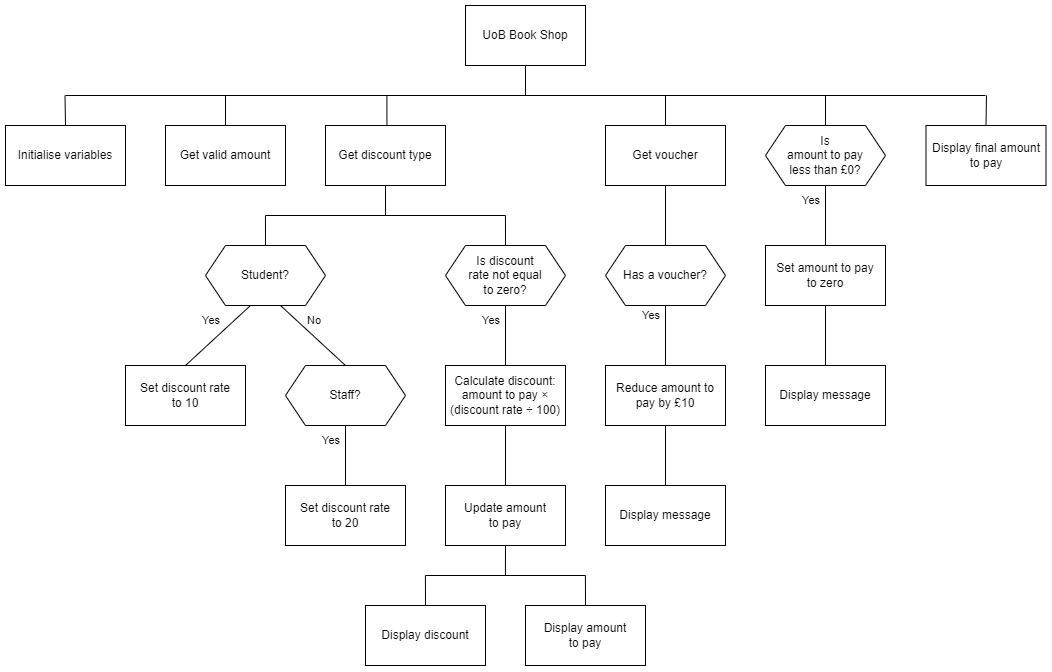
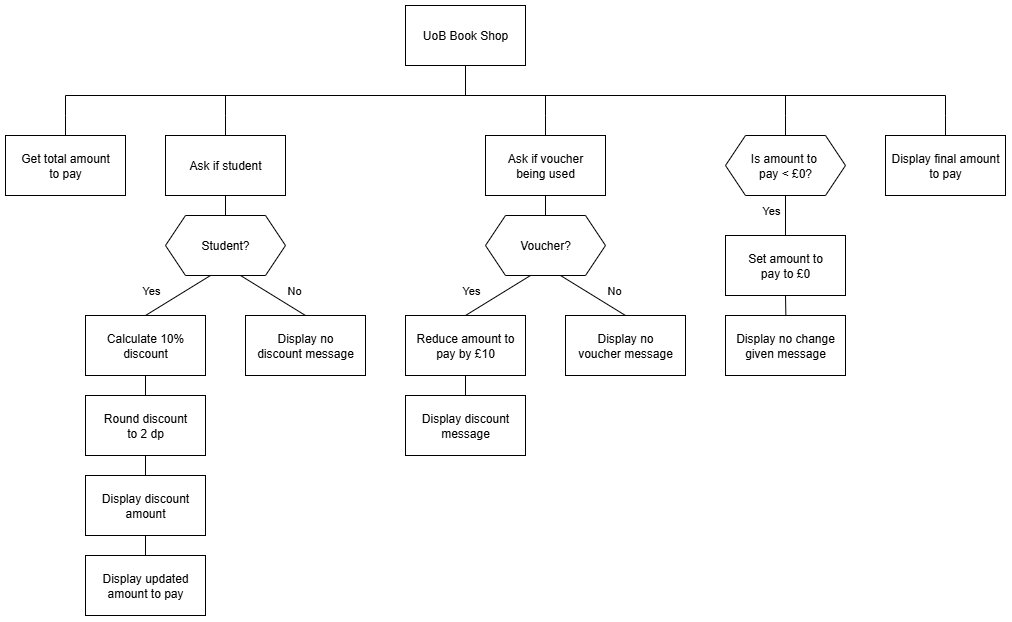
Updated

diff --git a/n5-cs/sdd/N5-SDD-Book-Shop/index2.md b/n5-cs/sdd/N5-SDD-Book-Shop/index2.md
@@ -3,12 +3,18 @@
 
 ## Introduction
 
-The University of Barra (UoB) bookshop is upgrading its software.  There is a wide selection of items for sale in the shop, ranging from a minimum of £5 up to a maximum of £100.  To help staff and students with the cost they get a discount.  The book shop will accept a gift voucher to pay for all or some of the purchase.  Only one £10 gift voucher can be used per purchase.  When using a voucher, no change is given if the amount to pay is less than £10.
+The University of Barra (UoB) bookshop is upgrading its software.
+To help students with the cost of the books they get a discount.
+The book shop will accept a gift voucher to pay for all or some of the purchase.
+Only one £10 gift voucher can be used per purchase.
+When using a voucher, no change is given if the amount to pay is less than £10.
 
 
 ## Task
 
-Use the structure diagram to implement a program that will accept a non-discounted amount, calculate the discounted price if appropriate, and then take into account using a voucher to pay for some, or all, of the amount.
+Use the structure diagram to implement a program that will accept a non-discounted amount, 
+calculate the discounted price if appropriate, and then take into account using a voucher to pay for some, 
+or all, of the amount.
 
 
 ## Top level design (Structure diagram)
@@ -23,19 +29,10 @@ Use the structure diagram to implement a program that will accept a non-discount
 * £10 as 10
 * 50p as 0.50
 
-2. Any text entered is lower or upper case, i.e. yes, YES, staff, STAFF, ...
-
-3. Any rounding will be done by the UoB bookshop staff.
+2. Any text entered is lower case, i.e. yes
 
 
-## Examples
-
-Examples of the expected user interface are shown below with some possible input and output values.
-
-
-### User Interface
-
-#### Example 1
+### User Interface - Example 1
 
 ```
 UoB Book Shop
@@ -43,13 +40,12 @@ UoB Book Shop
 
 Total amount: £10
 
-Discount? STUDENT
+Student? yes
 
 Discount: £1.0
 Amount to pay: £9.0
 
 Voucher? yes
-
 £10 voucher applied
 No change given when using a voucher
 
@@ -57,39 +53,40 @@ Final amount to pay: £0.0
 ====================
 ```
 
-#### Example 2
 
+### User Interface - Example 2
 ```
 UoB Book Shop
 -------------
 
 Total amount: £7.25
 
-Discount? no
+Student? no
+** No student discount applied **
 
-Voucher? NO
+Voucher? no
+** No voucher applied **
 
 Final amount to pay: £7.25
 ====================
 ```
 
-#### Example 3
 
+### User Interface - Example 3
 ```
 UoB Book Shop
 -------------
 
 Total amount: £25.50
 
-Discount? staff
+Student? yes
 
-Discount: £5.1
-Amount to pay: £20.4
+Discount: £2.55
+Amount to pay: £22.95
 
-Voucher? YES
-
+Voucher? yes
 £10 voucher applied
 
-Final amount to pay: £10.4
+Final amount to pay: £12.95
 ====================
 ```

diff --git a/n5-cs/sdd/N5-SDD-Book-Shop/index3.md b/n5-cs/sdd/N5-SDD-Book-Shop/index3.md
@@ -1,0 +1,100 @@
+# N5 SDD - Book Shop Part 3
+
+
+## Introduction
+
+The University of Barra (UoB) bookshop is upgrading its software.
+There is a wide selection of items for sale in the shop, ranging from a minimum of £5 up to a maximum of £100.
+To help staff and students with the cost they get a discount.
+The book shop will accept a gift voucher to pay for all or some of the purchase.
+Only one £10 gift voucher can be used per purchase.
+When using a voucher, no change is given if the amount to pay is less than £10.
+
+
+## Task
+
+Use the structure diagram to implement a program that will accept a non-discounted amount, calculate the discounted price if appropriate, and then take into account using a voucher to pay for some, or all, of the amount.
+
+
+## Top level design (Structure diagram)
+
+![Structure diagram](assets/sd3.png "Structure diagram")
+
+
+## Assumptions
+
+1. The initial amount will be entered as pounds:
+
+* £10 as 10
+* 50p as 0.50
+
+2. Any text entered is lower or upper case, i.e. yes, YES, staff, STAFF, ...
+
+3. Any rounding will be done by the UoB bookshop staff.
+
+
+## Examples
+
+Examples of the expected user interface are shown below with some possible input and output values.
+
+
+### User Interface
+
+#### Example 1
+
+```
+UoB Book Shop
+-------------
+
+Total amount: £10
+
+Discount? STUDENT
+
+Discount: £1.0
+Amount to pay: £9.0
+
+Voucher? yes
+
+£10 voucher applied
+No change given when using a voucher
+
+Final amount to pay: £0.0
+====================
+```
+
+#### Example 2
+
+```
+UoB Book Shop
+-------------
+
+Total amount: £7.25
+
+Discount? no
+
+Voucher? NO
+
+Final amount to pay: £7.25
+====================
+```
+
+#### Example 3
+
+```
+UoB Book Shop
+-------------
+
+Total amount: £25.50
+
+Discount? staff
+
+Discount: £5.1
+Amount to pay: £20.4
+
+Voucher? YES
+
+£10 voucher applied
+
+Final amount to pay: £10.4
+====================
+```

diff --git a/n5-cs/sdd/README.md b/n5-cs/sdd/README.md
@@ -24,11 +24,12 @@
 | N5-SDD-Boccia Pt 1         | Records scores, gives result         | ip, if1                       | |
 | N5-SDD-Book-Shop Pt 1      | Calculate student book price         | ip, if1                       | |
 | N5-SDD-Negative            | Determine if a value is negative     | ip, if2                       | |
+| N5-SDD-Book-Shop Pt 2      | Calculate student book price         | ip, if2                       | |
 | N5-SDD-The-Chase           | Quiz questions                       | if2, if3                      | |
 | N5-SDD-Retirement          | Calculate years to retirement        | ip, if3                       | |
 | N5-SDD-School-Lunches      | Calculate cost of 5 lunches          | fl, ip, t1d                   | sqarl |
 | N5-SDD-Cat-Food            | Cat's age decides the food type      | ip, if3                       | |
-| N5-SDD-Book-Shop Pt 2      | Calculate student/staff price        | ip, if4, lo, maths            | |
+| N5-SDD-Book-Shop Pt 3      | Calculate student/staff price        | ip, if4, lo, maths            | |
 | N5-SDD-Gradient Pt 2       | Calculate gradient from rise and run | ip, if2, maths, cat           | |
 | N5-SDD-Gradient Pt 3       | Calculate gradient from rise and run | iv, maths, cat                | |
 | N5-SDD-Pontoon Part 1      | Play a single hand of pontoon        | rnd, ip, cl, lo, if2          | pc |
